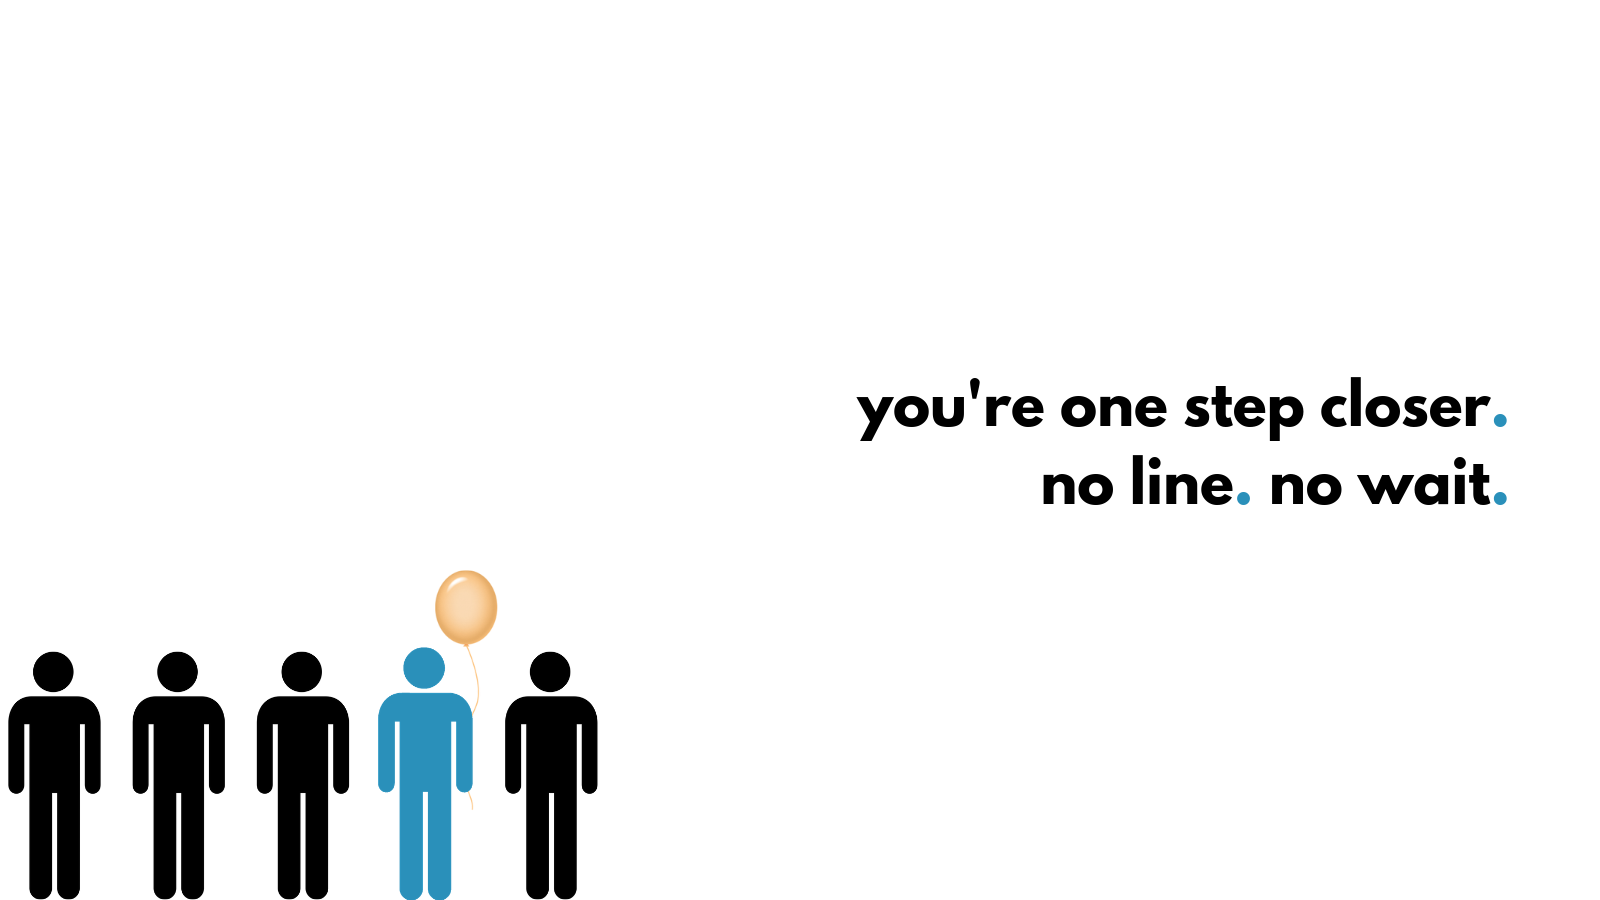
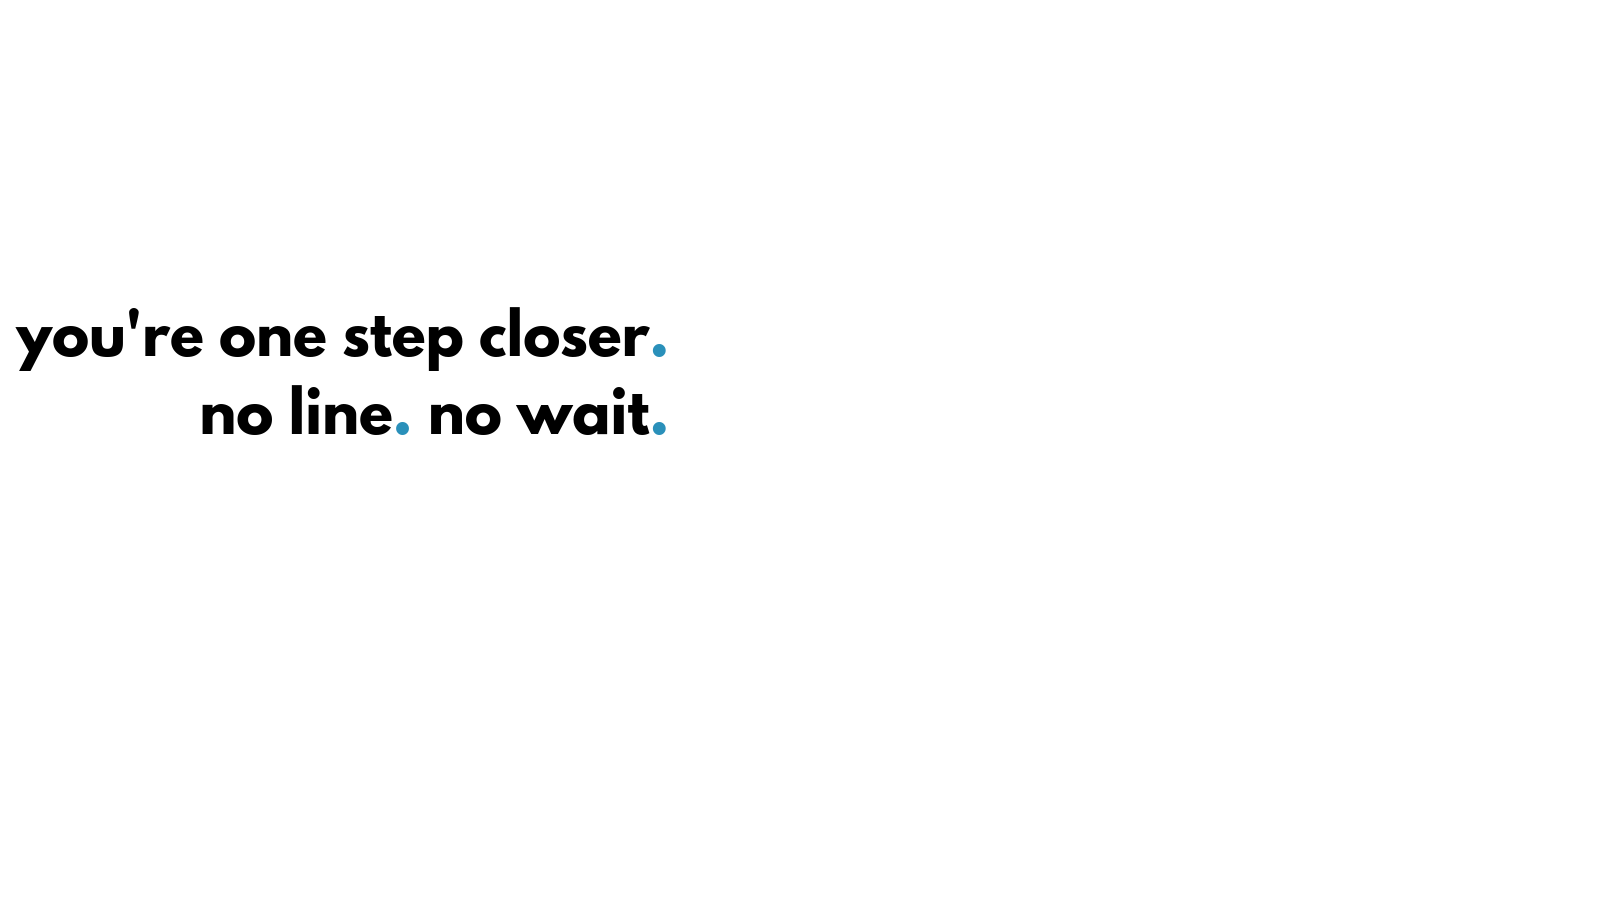
pic added to createEvent

diff --git a/views/assets/html/createEvent.html b/views/assets/html/createEvent.html
@@ -10,7 +10,6 @@
     integrity="sha384-GJzZqFGwb1QTTN6wy59ffF1BuGJpLSa9DkKMp0DgiMDm4iYMj70gZWKYbI706tWS"
     crossorigin="anonymous"
   />
-
  
     <title>Create Event</title>
 
@@ -18,11 +17,9 @@
   
 <div class="dialogDiv"></div>
 <div class="container" id="main">
-<div class="col-md-6">
+<div class="row">
+  <div class="col-md-6">
 
-
-<div class="container">
-<div class="col-md-12">
 
         <h1>Create the Event</h1> 
     <form action="POST">
@@ -64,6 +61,10 @@
       </button>
     </form>
       
+</div>
+<div class="col-md-6">
+  <img src="../media/createEvent.png" class="img-fluid">
+</div>
 </div>
 </div>
 <script
